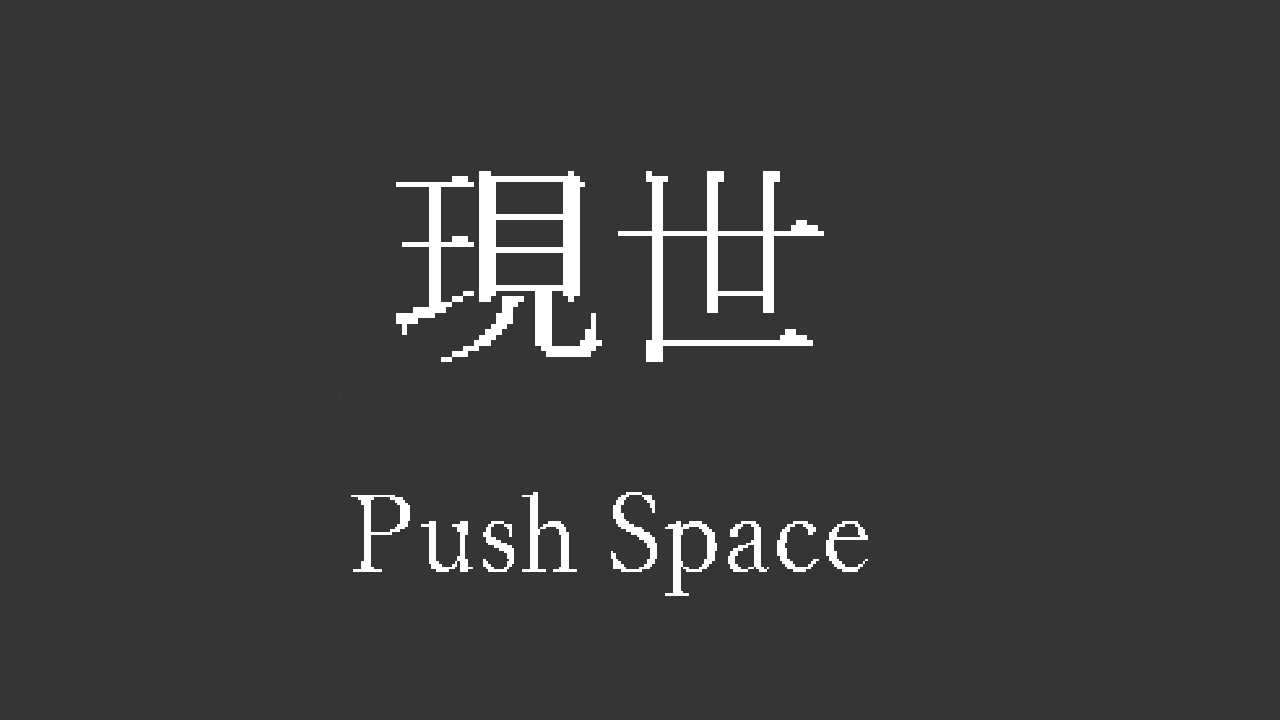
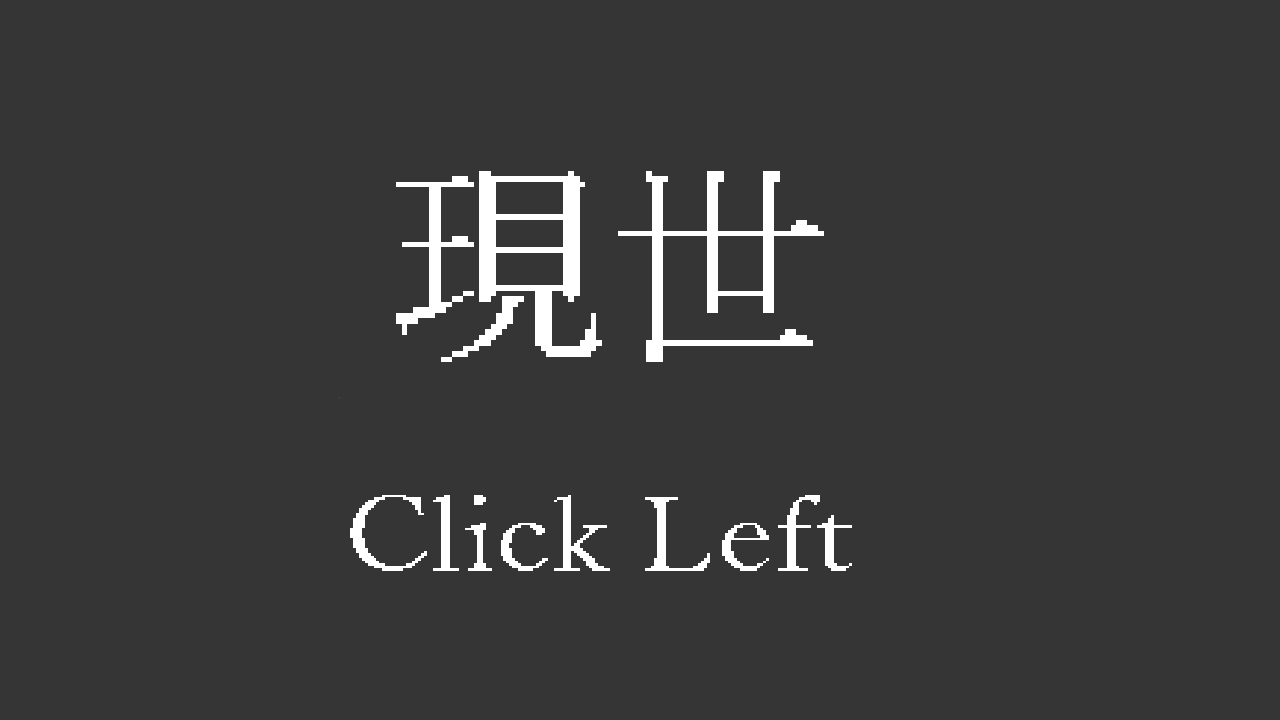
画像の品行をした

Changed region(s): [[0.25, 0.6722, 0.6875, 0.825]]

diff --git a/DirectXGame/scene/SelectScene.cpp b/DirectXGame/scene/SelectScene.cpp
@@ -28,7 +28,7 @@ void SelectScene::Initialize() {
 
 void SelectScene::Update() {
 
-	if (input_->TriggerKey(DIK_SPACE)) {
+	if (input_->IsTriggerMouse(0)) {
 		sceneNo = SUNNYSTAGE;
 	}
 

diff --git a/DirectXGame/scene/TitleScene.cpp b/DirectXGame/scene/TitleScene.cpp
@@ -46,7 +46,7 @@ void TitleScene::Initialize() {
 
 void TitleScene::Update() {
 
-	if (input_->TriggerKey(DIK_SPACE)) {
+	if (input_->IsTriggerMouse(0)) {
 		sceneNo = SELECT;
 	}
 }
